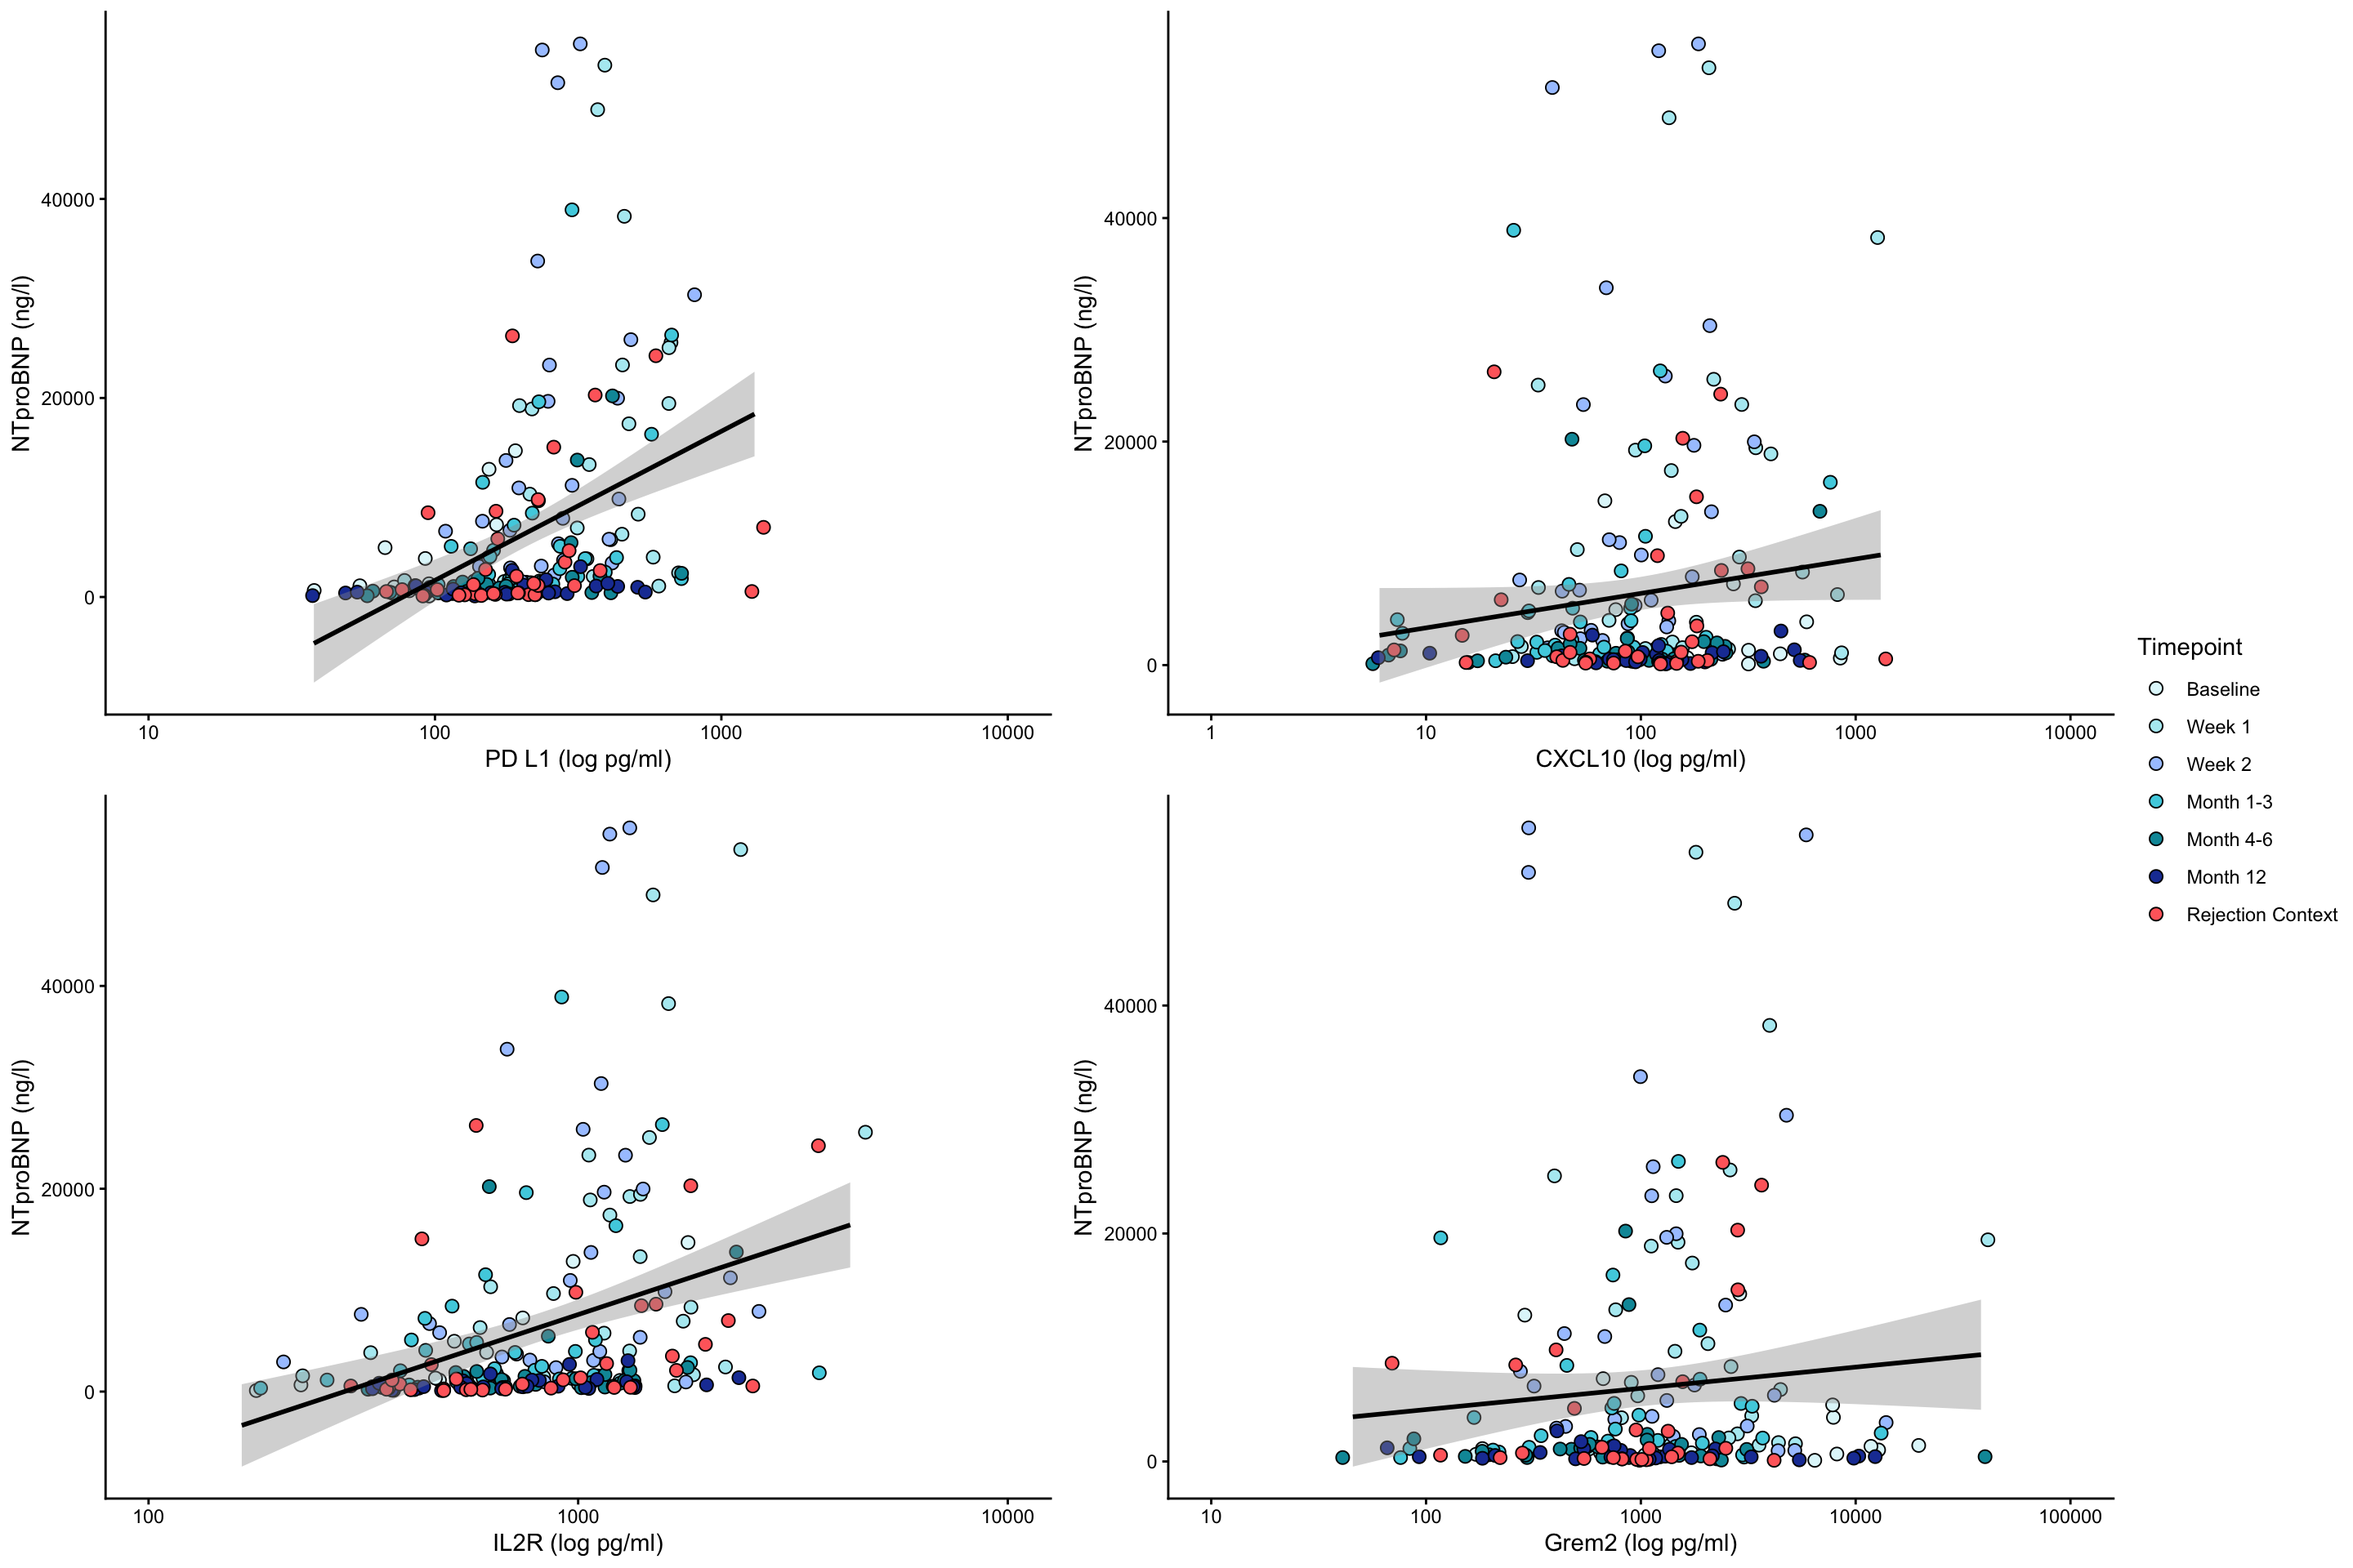
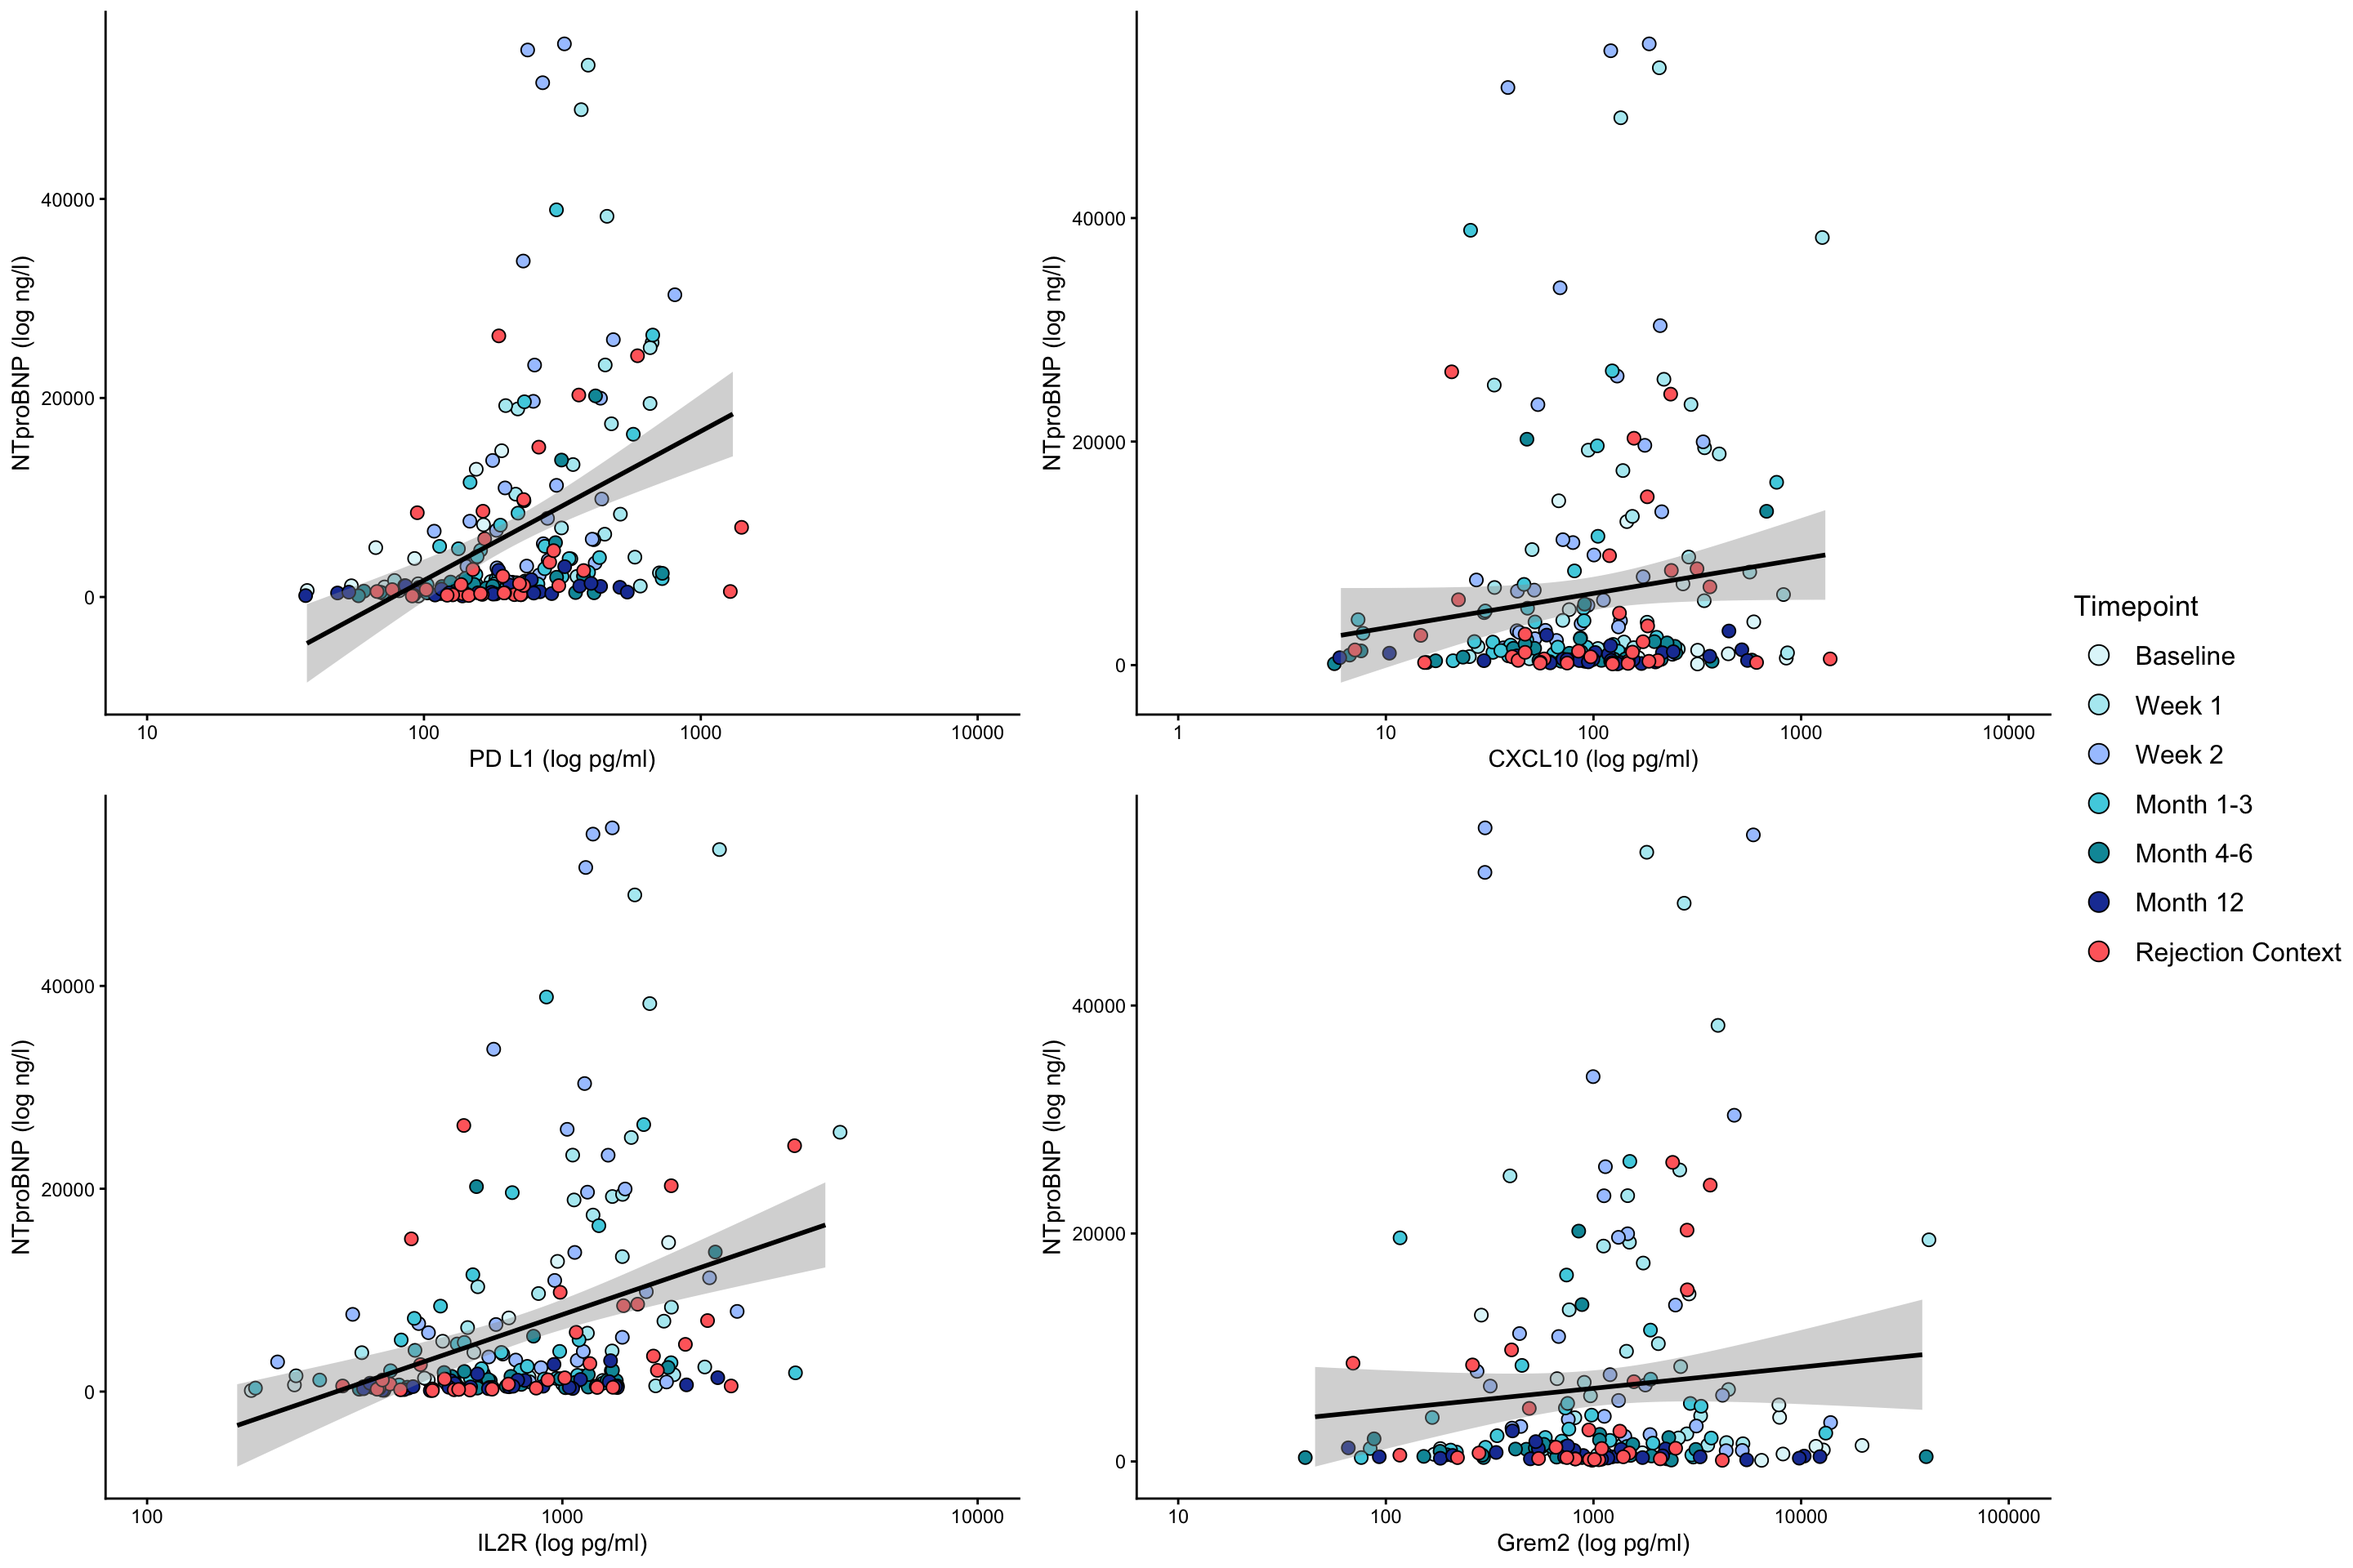
25.10.2026_11:19

diff --git a/docs/Correlations.html b/docs/Correlations.html
@@ -11,7 +11,7 @@
 
 <meta name="author" content="I. Hanka" />
 
-<meta name="date" content="2026-10-23" />
+<meta name="date" content="2026-10-25" />
 
 <title>Correlations</title>
 
@@ -300,7 +300,7 @@ $(document).ready(function () {
 
 <h1 class="title toc-ignore">Correlations</h1>
 <h4 class="author">I. Hanka</h4>
-<h4 class="date">2026-10-23</h4>
+<h4 class="date">2026-10-25</h4>
 
 </div>
 
@@ -329,7 +329,7 @@ aria-hidden="true"></span> </a>
 <div class="tab-content">
 <div id="summary" class="tab-pane fade in active">
 <p>
-<strong>Last updated:</strong> 2026-10-23
+<strong>Last updated:</strong> 2026-10-25
 </p>
 <p>
 <strong>Checks:</strong> <span
@@ -463,15 +463,15 @@ project makes it easier to run your code on other machines.</p>
 <div class="panel panel-default">
 <div class="panel-heading">
 <p class="panel-title">
-<a data-toggle="collapse" data-parent="#workflowr-checks" href="#strongRepositoryversionstrongahrefhttpsgithubcomIsabellaH1993LuminexCarTranstree51d79014ec66ef4742fa5124ed457a42a5ddf1betargetblank51d7901a">
+<a data-toggle="collapse" data-parent="#workflowr-checks" href="#strongRepositoryversionstrongahrefhttpsgithubcomIsabellaH1993LuminexCarTranstree58d6ac593bef5cd5fbafa86b37b09f7e1a961deftargetblank58d6ac5a">
 <span class="glyphicon glyphicon-ok text-success"
 aria-hidden="true"></span> <strong>Repository version:</strong>
-<a href="https://github.com/IsabellaH1993/Luminex-CarTrans/tree/51d79014ec66ef4742fa5124ed457a42a5ddf1be" target="_blank">51d7901</a>
+<a href="https://github.com/IsabellaH1993/Luminex-CarTrans/tree/58d6ac593bef5cd5fbafa86b37b09f7e1a961def" target="_blank">58d6ac5</a>
 </a>
 </p>
 </div>
 <div
[2 lines of base64/hex data omitted]
 class="panel-collapse collapse">
 <div class="panel-body">
 <p>
@@ -481,7 +481,7 @@ reproducibility.
 </p>
 <p>
 The results in this page were generated with repository version
-<a href="https://github.com/IsabellaH1993/Luminex-CarTrans/tree/51d79014ec66ef4742fa5124ed457a42a5ddf1be" target="_blank">51d7901</a>.
+<a href="https://github.com/IsabellaH1993/Luminex-CarTrans/tree/58d6ac593bef5cd5fbafa86b37b09f7e1a961def" target="_blank">58d6ac5</a>.
 See the <em>Past versions</em> tab to see a history of the changes made
 to the R Markdown and HTML files.
 </p>
@@ -504,26 +504,8 @@ Ignored files:
     Ignored:    data/
     Ignored:    html/
 
-Untracked files:
-    Untracked:  Early_late_rejection.Rmd
-    Untracked:  analysis/Early_late_rejection.Rmd
-
 Unstaged changes:
-    Modified:   analysis/Analytes_CXCL10.Rmd
-    Modified:   analysis/Analytes_Grem2.Rmd
-    Modified:   analysis/Analytes_IL2R.Rmd
-    Modified:   analysis/Analytes_PDL1.Rmd
-    Modified:   analysis/Convalesence_Rejection.Rmd
     Modified:   analysis/Correlations.Rmd
-    Modified:   analysis/Immunsuppression_Luminex.Rmd
-    Modified:   analysis/Immunsuppression_Luminex_vsBaseline.Rmd
-    Modified:   analysis/Luminex_HeatmapVisit.Rmd
-    Modified:   analysis/Luminex_HeatmapVisit_vsBaseline.Rmd
-    Modified:   analysis/Luminex_Overview.Rmd
-    Modified:   analysis/PathologicalGrading_Luminex.Rmd
-    Modified:   analysis/TransplantationRisk.Rmd
-    Modified:   analysis/TransplantationRisk_vsBaseline.Rmd
-    Modified:   analysis/index.Rmd
 
 </code></pre>
 <p>
@@ -568,6 +550,57 @@ Message
 </tr>
 </thead>
 <tbody>
+<tr>
+<td>
+Rmd
+</td>
+<td>
+<a href="https://github.com/IsabellaH1993/Luminex-CarTrans/blob/58d6ac593bef5cd5fbafa86b37b09f7e1a961def/analysis/Correlations.Rmd" target="_blank">58d6ac5</a>
+</td>
+<td>
+IsabellaH1993
+</td>
+<td>
+2026-10-24
+</td>
+<td>
+24.10.2026_18:16
+</td>
+</tr>
+<tr>
+<td>
+Rmd
+</td>
+<td>
+<a href="https://github.com/IsabellaH1993/Luminex-CarTrans/blob/0f20a4505b149771dde67837d2b3519698721061/analysis/Correlations.Rmd" target="_blank">0f20a45</a>
+</td>
+<td>
+IsabellaH1993
+</td>
+<td>
+2026-10-24
+</td>
+<td>
+24.10.2026_13:00
+</td>
+</tr>
+<tr>
+<td>
+html
+</td>
+<td>
+<a href="https://rawcdn.githack.com/IsabellaH1993/Luminex-CarTrans/0f20a4505b149771dde67837d2b3519698721061/docs/Correlations.html" target="_blank">0f20a45</a>
+</td>
+<td>
+IsabellaH1993
+</td>
+<td>
+2026-10-24
+</td>
+<td>
+24.10.2026_13:00
+</td>
+</tr>
 <tr>
 <td>
 Rmd
@@ -844,7 +877,7 @@ mutate(Timepoint = factor(Timepoint, levels = c(&quot;Healthy&quot;, &quot;Basel
 
 # Define lab parameter (y axis)
   lab_param &lt;- &quot;NTproBNP&quot;
-  lab_label &lt;- &quot;NTproBNP (ng/l)&quot;
+  lab_label &lt;- &quot;NTproBNP (log ng/l)&quot;
 
 # Define Luminex analytes (x axis)
   analytes &lt;- c(&quot;PD_L1&quot;, &quot;CXCL10&quot;, &quot;IL2R&quot;, &quot;Grem2&quot;)
@@ -879,6 +912,10 @@ mutate(Timepoint = factor(Timepoint, levels = c(&quot;Healthy&quot;, &quot;Basel
                               limits = c(min_log10_limit, max_log10_limit),
                               expand = c(0.05, 0), breaks = x_breaks) +
                 theme_classic() +
+                theme(legend.text  = element_text(size = 12),
+                legend.title = element_text(size = 13),
+                legend.key.size = unit(0.8, &quot;cm&quot;)) +
+                  guides(fill = guide_legend(override.aes = list(size = 4))) +
                 labs(x = analyte_labels[[p]], y = lab_label) +
                 annotate(&quot;text&quot;, x = -Inf, y = Inf,
                          label = paste0(&quot;r = &quot;, round(cor_test$estimate, 2),
@@ -924,6 +961,17 @@ Date
 <tbody>
 <tr>
 <td>
+<a href="https://github.com/IsabellaH1993/Luminex-CarTrans/blob/0f20a4505b149771dde67837d2b3519698721061/docs/figure/Correlations.Rmd/NTproBNP correlation-1.png" target="_blank">0f20a45</a>
+</td>
+<td>
+IsabellaH1993
+</td>
+<td>
+2026-10-24
+</td>
+</tr>
+<tr>
+<td>
 <a href="https://github.com/IsabellaH1993/Luminex-CarTrans/blob/eaf24542904967480efd7075b0cd78738f63be0b/docs/figure/Correlations.Rmd/NTproBNP correlation-1.png" target="_blank">eaf2454</a>
 </td>
 <td>
@@ -964,7 +1012,7 @@ IsabellaH1993
 <h1>CRP</h1>
 <pre class="r"><code># Define lab parameter (y axis)
   lab_param &lt;- &quot;CRP&quot;
-  lab_label &lt;- &quot;CRP (ng/l)&quot;
+  lab_label &lt;- &quot;CRP (log ng/l)&quot;
 
 # Define Luminex analytes (x axis)
   analytes &lt;- c(&quot;PD_L1&quot;, &quot;CXCL10&quot;, &quot;IL2R&quot;, &quot;Grem2&quot;)
@@ -999,6 +1047,10 @@ IsabellaH1993
                               limits = c(min_log10_limit, max_log10_limit),
                               expand = c(0.05, 0), breaks = x_breaks) +
                 theme_classic() +
+                theme(legend.text  = element_text(size = 12),
+                legend.title = element_text(size = 13),
+                legend.key.size = unit(0.8, &quot;cm&quot;)) +
+                  guides(fill = guide_legend(override.aes = list(size = 4))) +
                 labs(x = analyte_labels[[p]], y = lab_label) +
                 annotate(&quot;text&quot;, x = -Inf, y = Inf,
                          label = paste0(&quot;r = &quot;, round(cor_test$estimate, 2),
@@ -1044,6 +1096,17 @@ Date
 <tbody>
 <tr>
 <td>
+<a href="https://github.com/IsabellaH1993/Luminex-CarTrans/blob/0f20a4505b149771dde67837d2b3519698721061/docs/figure/Correlations.Rmd/CRP correlation-1.png" target="_blank">0f20a45</a>
+</td>
+<td>
+IsabellaH1993
+</td>
+<td>
+2026-10-24
+</td>
+</tr>
+<tr>
+<td>
 <a href="https://github.com/IsabellaH1993/Luminex-CarTrans/blob/eaf24542904967480efd7075b0cd78738f63be0b/docs/figure/Correlations.Rmd/CRP correlation-1.png" target="_blank">eaf2454</a>
 </td>
 <td>
@@ -1084,7 +1147,7 @@ IsabellaH1993
 <h1>TropT</h1>
 <pre class="r"><code># Define lab parameter (y axis)
   lab_param &lt;- &quot;TropT&quot;
-  lab_label &lt;- &quot;Troponin T (ng/l)&quot;
+  lab_label &lt;- &quot;Troponin T (log ng/l)&quot;
 
 # Define Luminex analytes (x axis)
   analytes &lt;- c(&quot;PD_L1&quot;, &quot;CXCL10&quot;, &quot;IL2R&quot;, &quot;Grem2&quot;)
@@ -1119,6 +1182,10 @@ IsabellaH1993
                               limits = c(min_log10_limit, max_log10_limit),
                               expand = c(0.05, 0), breaks = x_breaks) +
                 theme_classic() +
+                theme(legend.text  = element_text(size = 12),
+                legend.title = element_text(size = 13),
+                legend.key.size = unit(0.8, &quot;cm&quot;)) +
+                guides(fill = guide_legend(override.aes = list(size = 4))) +
                 labs(x = analyte_labels[[p]], y = lab_label) +
                 annotate(&quot;text&quot;, x = -Inf, y = Inf,
                          label = paste0(&quot;r = &quot;, round(cor_test$estimate, 2),
@@ -1162,6 +1229,17 @@ Date
 </tr>
 </thead>
 <tbody>
+<tr>
+<td>
+<a href="https://github.com/IsabellaH1993/Luminex-CarTrans/blob/0f20a4505b149771dde67837d2b3519698721061/docs/figure/Correlations.Rmd/TropT correlation-1.png" target="_blank">0f20a45</a>
+</td>
+<td>
+IsabellaH1993
+</td>
+<td>
+2026-10-24
+</td>
+</tr>
 <tr>
 <td>
 <a href="https://github.com/IsabellaH1993/Luminex-CarTrans/blob/eaf24542904967480efd7075b0cd78738f63be0b/docs/figure/Correlations.Rmd/TropT correlation-1.png" target="_blank">eaf2454</a>
@@ -1339,6 +1417,17 @@ Date
 <tbody>
 <tr>
 <td>
+<a href="https://github.com/IsabellaH1993/Luminex-CarTrans/blob/0f20a4505b149771dde67837d2b3519698721061/docs/figure/Correlations.Rmd/unnamed-chunk-4-1.png" target="_blank">0f20a45</a>
+</td>
+<td>
+IsabellaH1993
+</td>
+<td>
+2026-10-24
+</td>
+</tr>
+<tr>
+<td>
 <a href="https://github.com/IsabellaH1993/Luminex-CarTrans/blob/eaf24542904967480efd7075b0cd78738f63be0b/docs/figure/Correlations.Rmd/unnamed-chunk-4-1.png" target="_blank">eaf2454</a>
 </td>
 <td>
@@ -1362,7 +1451,6 @@ table(table_corr_path$Rejection)</code></pre>
 No rejection    Rejection 
          173           25 </code></pre>
 <pre class="r"><code># Correlation over all visits 
-
 plots_list &lt;- list()
 
 for (p in analytes) {
@@ -1428,6 +1516,17 @@ Date
 </tr>
 </thead>
 <tbody>
+<tr>
+<td>
+<a href="https://github.com/IsabellaH1993/Luminex-CarTrans/blob/0f20a4505b149771dde67837d2b3519698721061/docs/figure/Correlations.Rmd/unnamed-chunk-6-1.png" target="_blank">0f20a45</a>
+</td>
+<td>
+IsabellaH1993
+</td>
+<td>
+2026-10-24
+</td>
+</tr>
 <tr>
 <td>
 <a href="https://github.com/IsabellaH1993/Luminex-CarTrans/blob/eaf24542904967480efd7075b0cd78738f63be0b/docs/figure/Correlations.Rmd/unnamed-chunk-6-1.png" target="_blank">eaf2454</a>
@@ -1519,6 +1618,17 @@ Date
 </tr>
 </thead>
 <tbody>
+<tr>
+<td>
+<a href="https://github.com/IsabellaH1993/Luminex-CarTrans/blob/0f20a4505b149771dde67837d2b3519698721061/docs/figure/Correlations.Rmd/early values vs late rejection-1.png" target="_blank">0f20a45</a>
+</td>
+<td>
+IsabellaH1993
+</td>
+<td>
+2026-10-24
+</td>
+</tr>
 <tr>
 <td>
 <a href="https://github.com/IsabellaH1993/Luminex-CarTrans/blob/eaf24542904967480efd7075b0cd78738f63be0b/docs/figure/Correlations.Rmd/early values vs late rejection-1.png" target="_blank">eaf2454</a>
